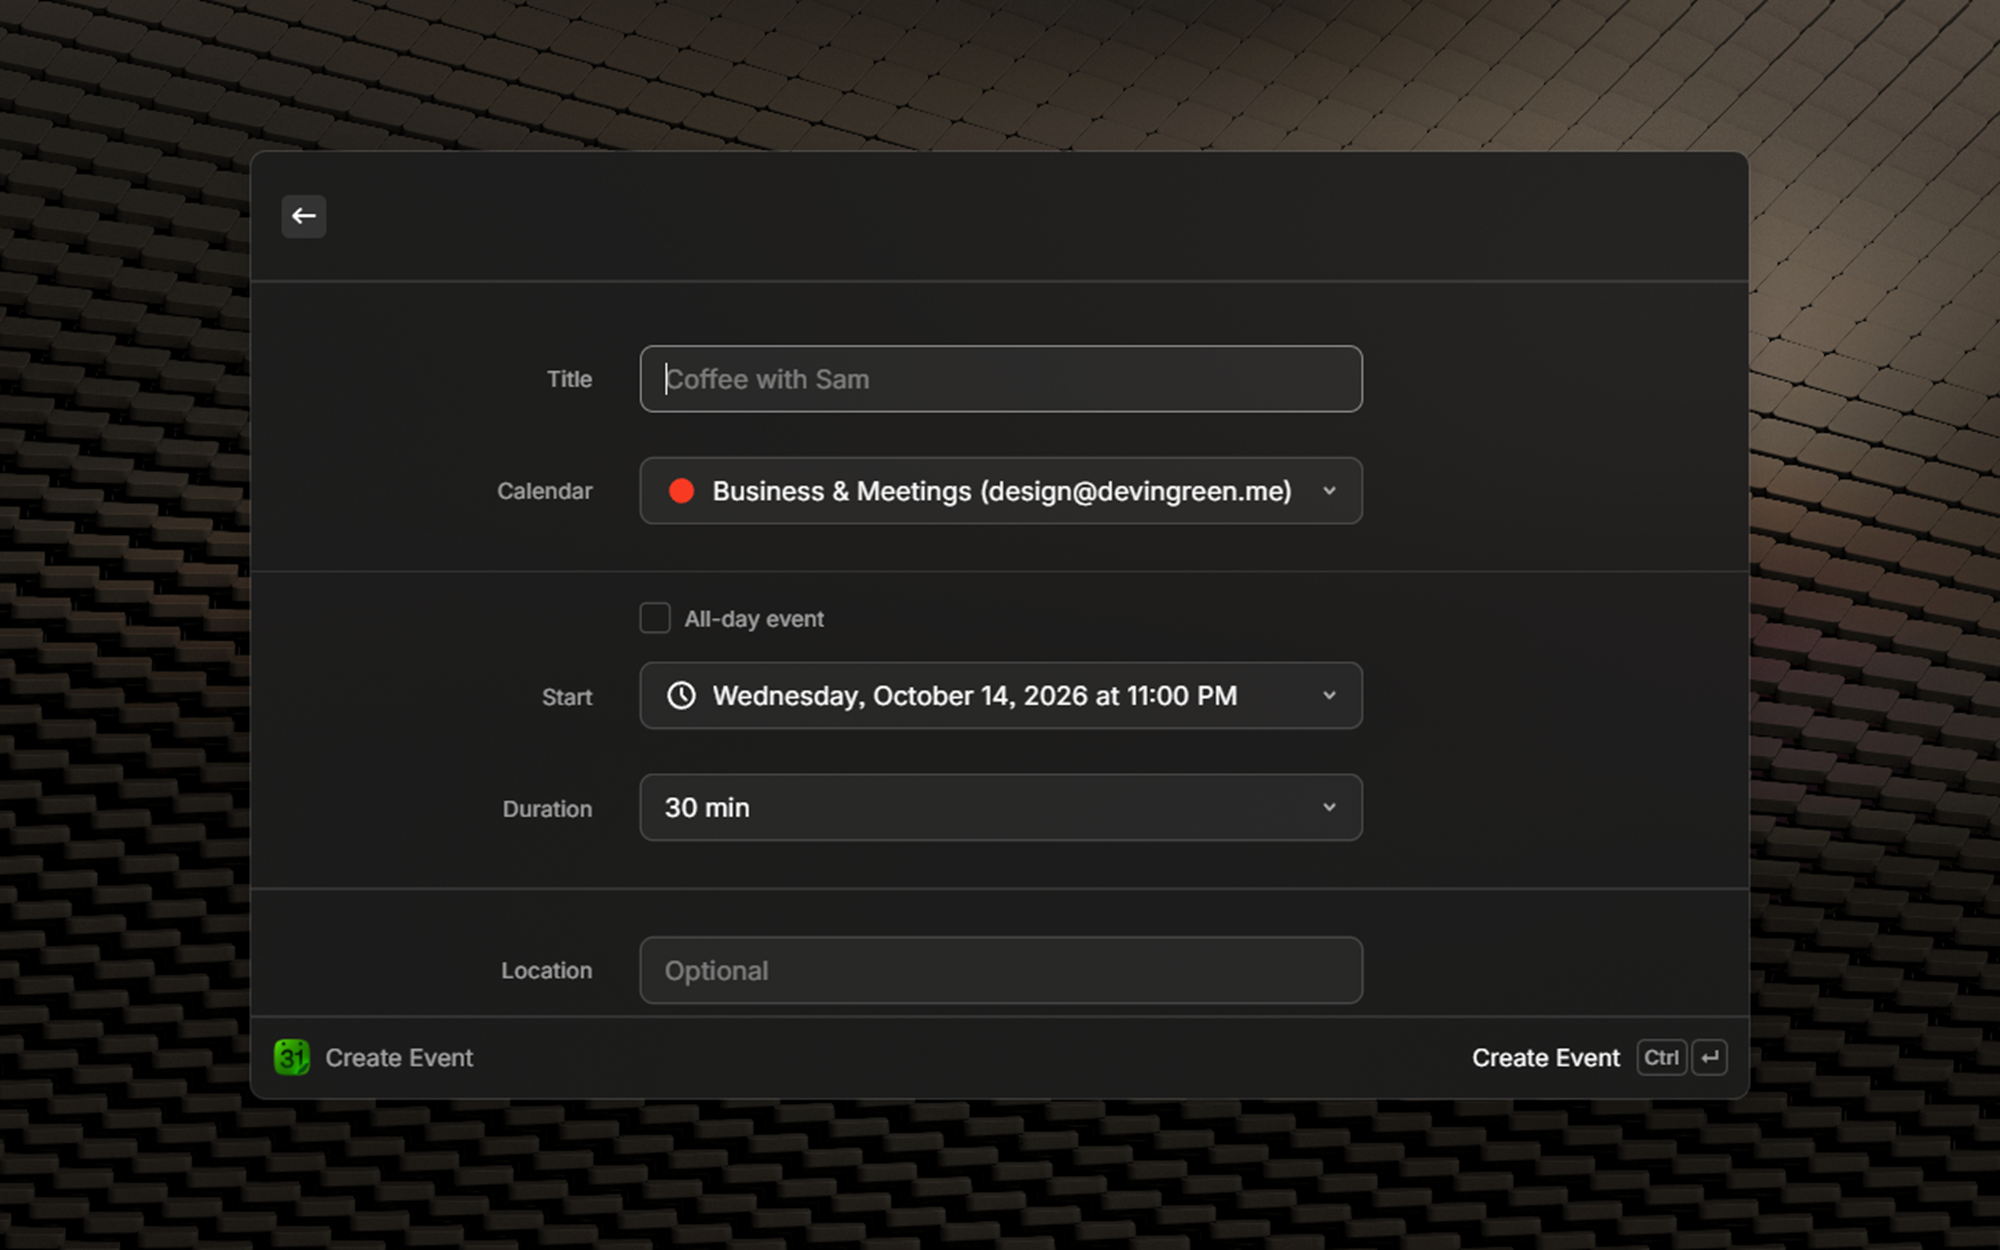
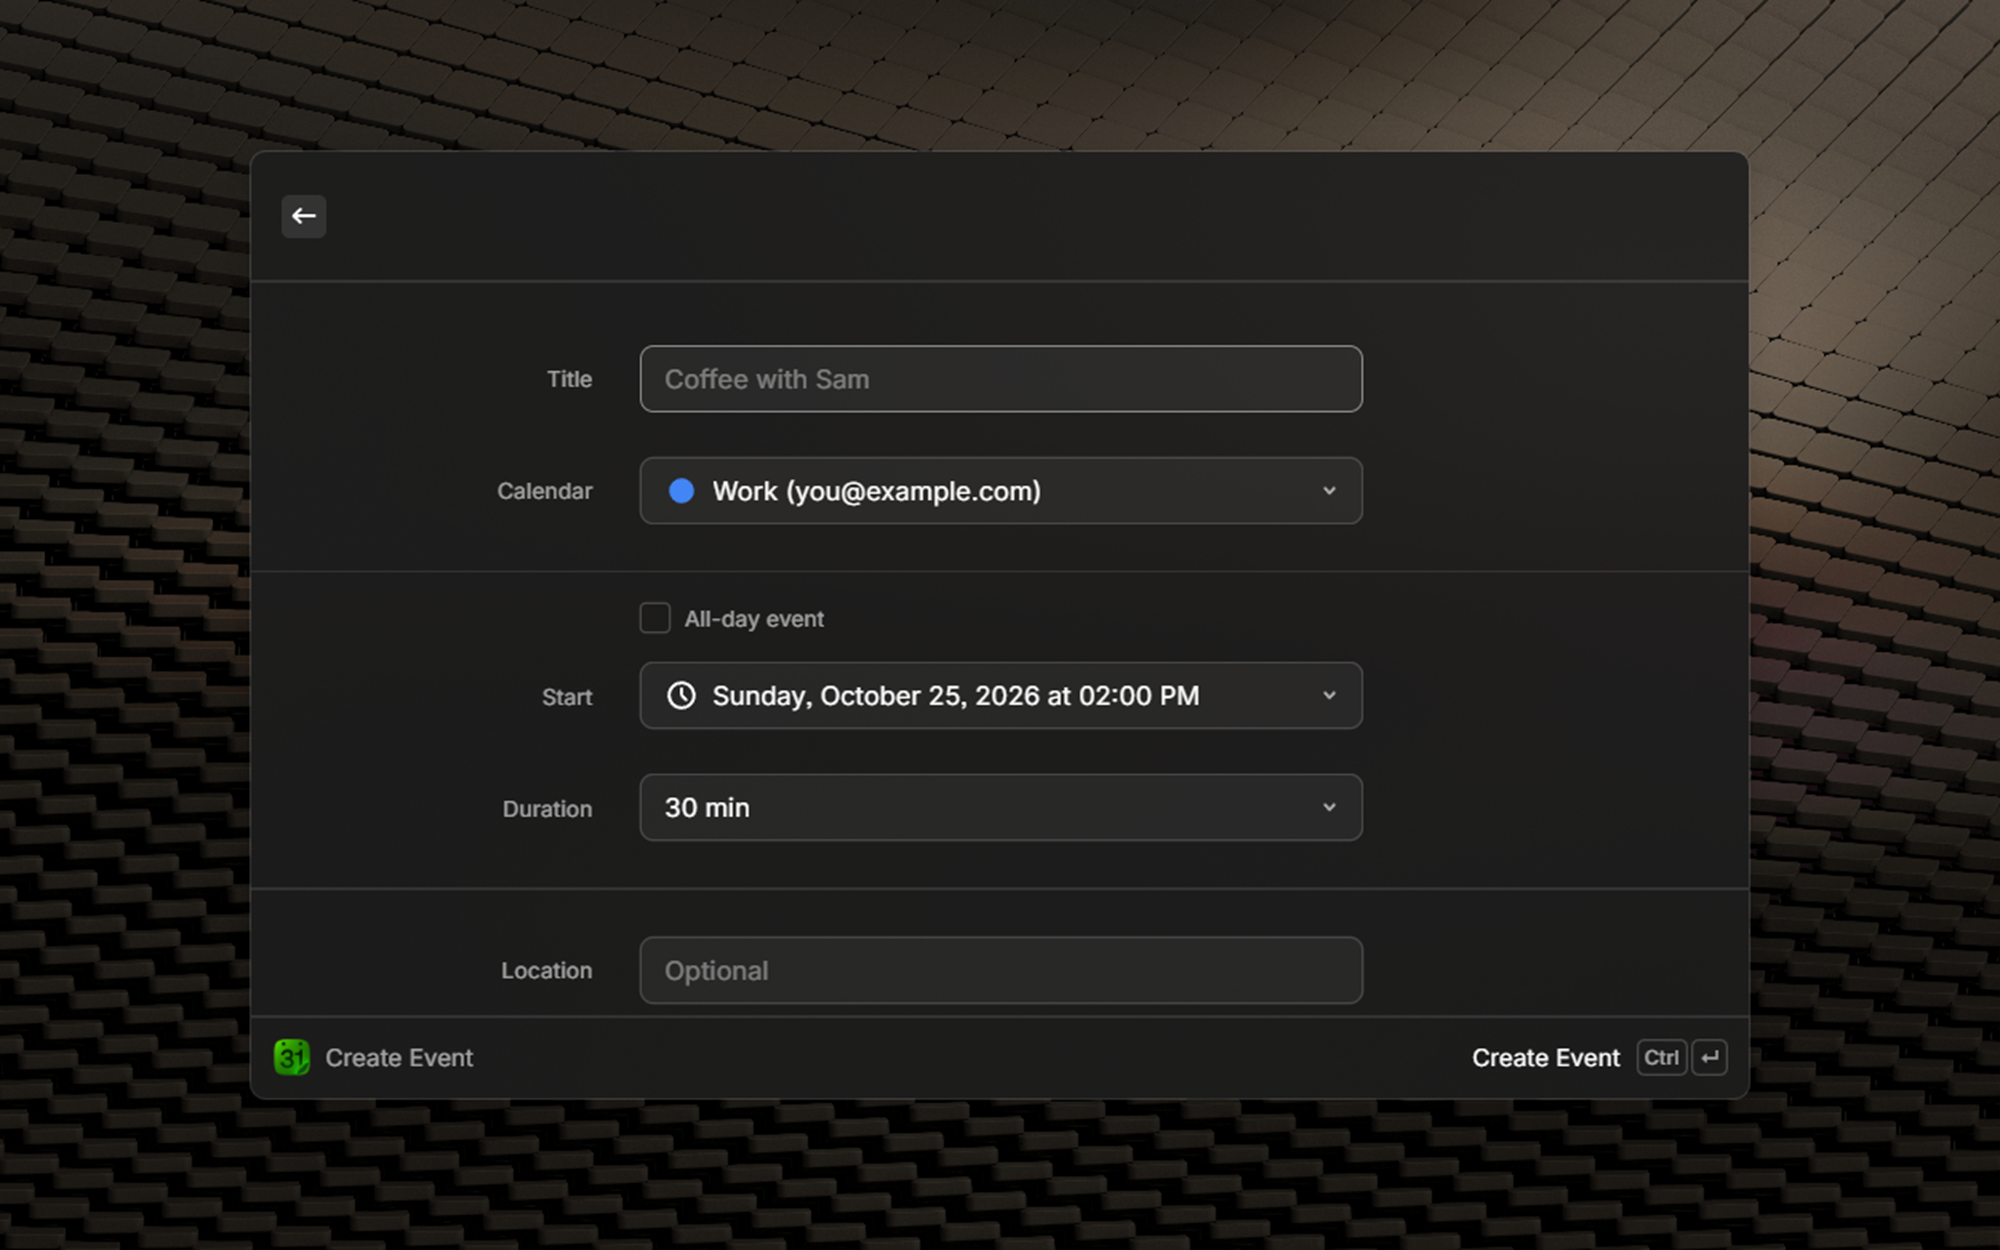
chore: address store review and retake screenshots with sample data
Drop first-screen navigation titles, use showFailureToast, update the store description, and replace the four screenshots with sample-data captures.

Changed region(s): [[0.31, 0.3744, 0.651, 0.4056], [0.341, 0.5304, 0.62, 0.5928]]

diff --git a/src/lib/leaf.ts b/src/lib/leaf.ts
@@ -1,4 +1,5 @@
-import { environment, OAuth, showToast, Toast } from "@raycast/api";
+import { environment, OAuth } from "@raycast/api";
+import { showFailureToast } from "@raycast/utils";
 import { randomBytes } from "node:crypto";
 import { readFileSync } from "node:fs";
 import os from "node:os";
@@ -96,5 +97,5 @@ export function describeError(error: unknown): { title: string; message: string 
 }
 
 export async function showLeafError(error: unknown): Promise<void> {
-  await showToast({ style: Toast.Style.Failure, ...describeError(error) });
+  await showFailureToast(error, describeError(error));
 }

diff --git a/src/find-time-to-meet.tsx b/src/find-time-to-meet.tsx
@@ -138,7 +138,7 @@ export default function FindTimeToMeet() {
     <List
       isLoading={free.isLoading || links.isLoading}
       searchBarPlaceholder="Search free times"
-      navigationTitle={picked.length ? `${picked.length} Selected` : "Find a Time to Meet"}
+      navigationTitle={picked.length ? `${picked.length} Selected` : undefined}
       searchBarAccessory={
         <List.Dropdown tooltip="Booking Link" value={linkId} onChange={changeLink}>
           <List.Dropdown.Item title="No Booking Link" value={PLAIN} icon={Icon.Clock} />

diff --git a/src/scheduled-windows.tsx b/src/scheduled-windows.tsx
@@ -63,7 +63,7 @@ export default function ScheduledWindows() {
   }
 
   return (
-    <List isLoading={isLoading} navigationTitle="Scheduled Windows" searchBarPlaceholder="Search scheduled windows">
+    <List isLoading={isLoading} searchBarPlaceholder="Search scheduled windows">
       <List.EmptyView
         icon={error ? Icon.Warning : Icon.Bookmark}
         title={error ? describeError(error).title : "No scheduled windows"}

diff --git a/README.md b/README.md
@@ -1,6 +1,8 @@
 # Leaf Calendar
 
-See your agenda, join meetings, create and move events, and share booking times through [Leaf Calendar](https://github.com/artistro08/leaf-calendar), right from Raycast.
+A raycast extension to access Leaf Calendar with your raycast workflow.
+
+You can see your agenda, setup scheduling links, and schedule events. You can also see all your calendars in one place
 
 ## Introduction
 
